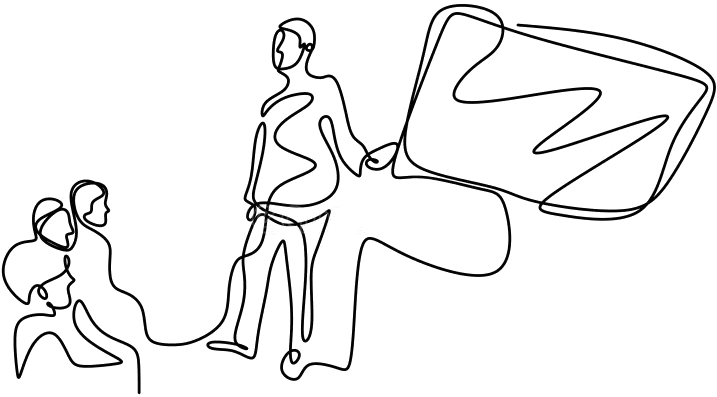
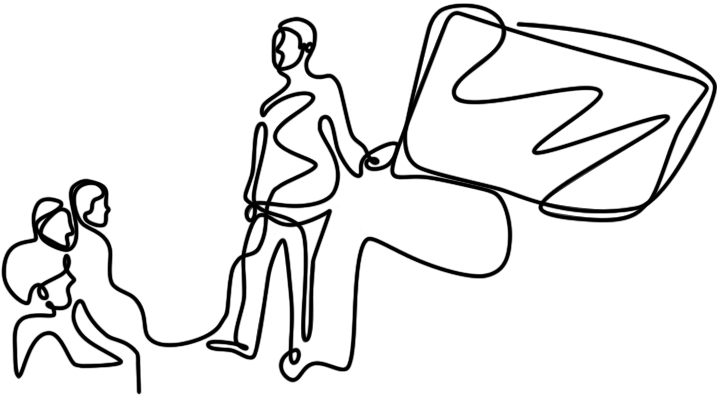
landing sketch

diff --git a/src/routes/+page.svelte b/src/routes/+page.svelte
@@ -34,7 +34,7 @@
     <div id="wrapper"><div>
 <div id="landing_grid" class="mx-auto">
 
-    <img src="/img/line-guru.png" class="mx-auto" alt="lecture sketch square characters" style="width:250px;">
+    <img src="/img/line-guru.png" class="w-75 mx-auto" alt="lecture sketch square characters">
 
     <div id="div_top">
         <div id="title">GuruEAP</div>
@@ -105,6 +105,7 @@
         grid-template-columns: 1fr;
         justify-content: center;
         align-items: center;
+        margin-top:0px;
     }
 
     #title {
@@ -112,6 +113,7 @@
         text-align:center;
         font-weight:bold;
         color: #aaaaaa;
+        /* color: #0277BD; */
     }
 
     #tag {
